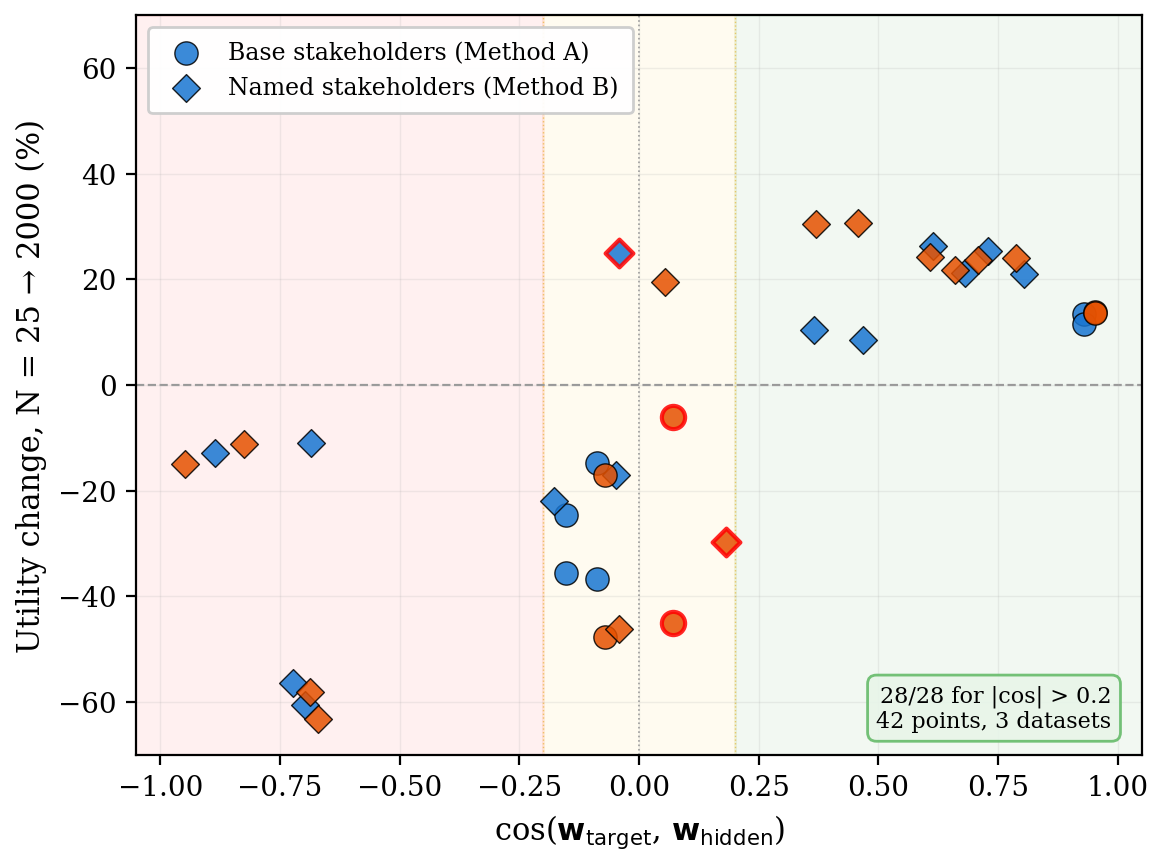
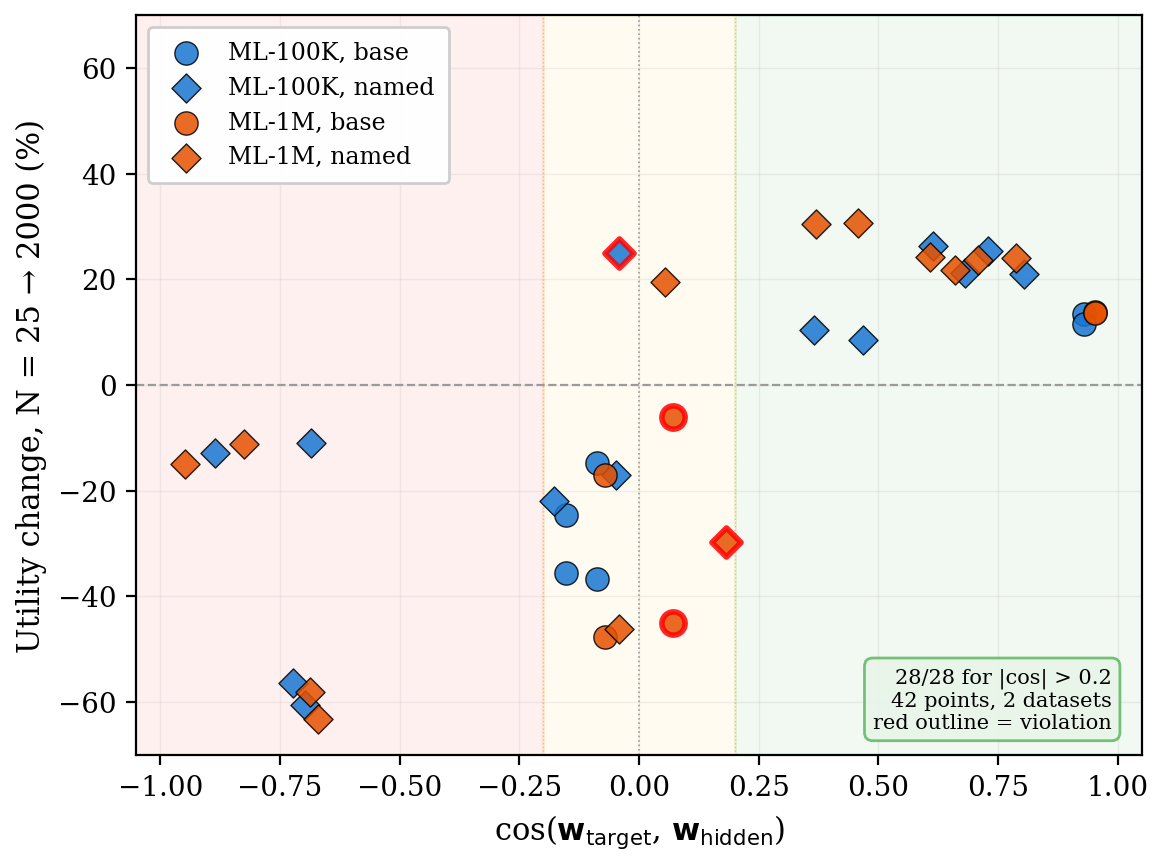
fix(fig3): correct legend — 4 entries for dataset×method, explain red outline, fix 2 datasets

diff --git a/scripts/visualization/generate_paper_figures.py b/scripts/visualization/generate_paper_figures.py
@@ -133,31 +133,27 @@ def fig3_direction_scatter():
     ax.axvline(x=-0.2, color="#E0A000", linewidth=0.5, linestyle=":", zorder=1, alpha=0.5)
     ax.axvline(x=0.2, color="#E0A000", linewidth=0.5, linestyle=":", zorder=1, alpha=0.5)
 
-    # Plot points — different shapes for Method A vs B
-    method_styles = {
-        "A": {"marker": "o", "s": 70, "label": "Base stakeholders (Method A)"},
-        "B": {"marker": "D", "s": 50, "label": "Named stakeholders (Method B)"},
+    # 4 legend entries: dataset × method
+    legend_keys = {
+        ("ml-100k", "A"): ("ML-100K, base", "o", C_100K),
+        ("ml-100k", "B"): ("ML-100K, named", "D", C_100K),
+        ("ml-1m", "A"): ("ML-1M, base", "o", C_1M),
+        ("ml-1m", "B"): ("ML-1M, named", "D", C_1M),
     }
-    ds_colors_map = {"ml-100k": C_100K, "ml-1m": C_1M}
-    method_plotted = set()
+    plotted = set()
 
     for p in points:
-        method = p["method"]
-        ds = p["dataset"]
-        cos_val = p["cosine"]
-        change = p["change_pct"]
-        match = p["match"]
+        key = (p["dataset"], p["method"])
+        label_text, marker, color = legend_keys.get(key, ("other", "x", "#888"))
+        label = label_text if key not in plotted else None
+        plotted.add(key)
 
-        style = method_styles[method]
-        color = ds_colors_map.get(ds, "#888888")
-        label = style["label"] if method not in method_plotted else None
-        method_plotted.add(method)
+        edge = "black" if p["match"] else "red"
+        lw = 0.5 if p["match"] else 2.0
+        s = 70 if p["method"] == "A" else 55
 
-        edge = "black" if match else "red"
-        lw = 0.5 if match else 1.5
-
-        ax.scatter(cos_val, change, c=color, marker=style["marker"],
-                   s=style["s"], edgecolors=edge, linewidths=lw,
+        ax.scatter(p["cosine"], p["change_pct"], c=color, marker=marker,
+                   s=s, edgecolors=edge, linewidths=lw,
                    zorder=5, label=label, alpha=0.85)
 
     # No zone text labels — the three-color shading communicates the zones.
@@ -165,8 +161,8 @@ def fig3_direction_scatter():
 
     # Validation badge
     ax.text(0.97, 0.03,
-            "28/28 for |cos| > 0.2\n42 points, 3 datasets",
-            transform=ax.transAxes, fontsize=8, ha="right", va="bottom",
+            "28/28 for |cos| > 0.2\n42 points, 2 datasets\nred outline = violation",
+            transform=ax.transAxes, fontsize=7.5, ha="right", va="bottom",
             bbox=dict(boxstyle="round,pad=0.4", facecolor="#E8F5E9",
                       edgecolor="#66BB6A", alpha=0.9))
 
